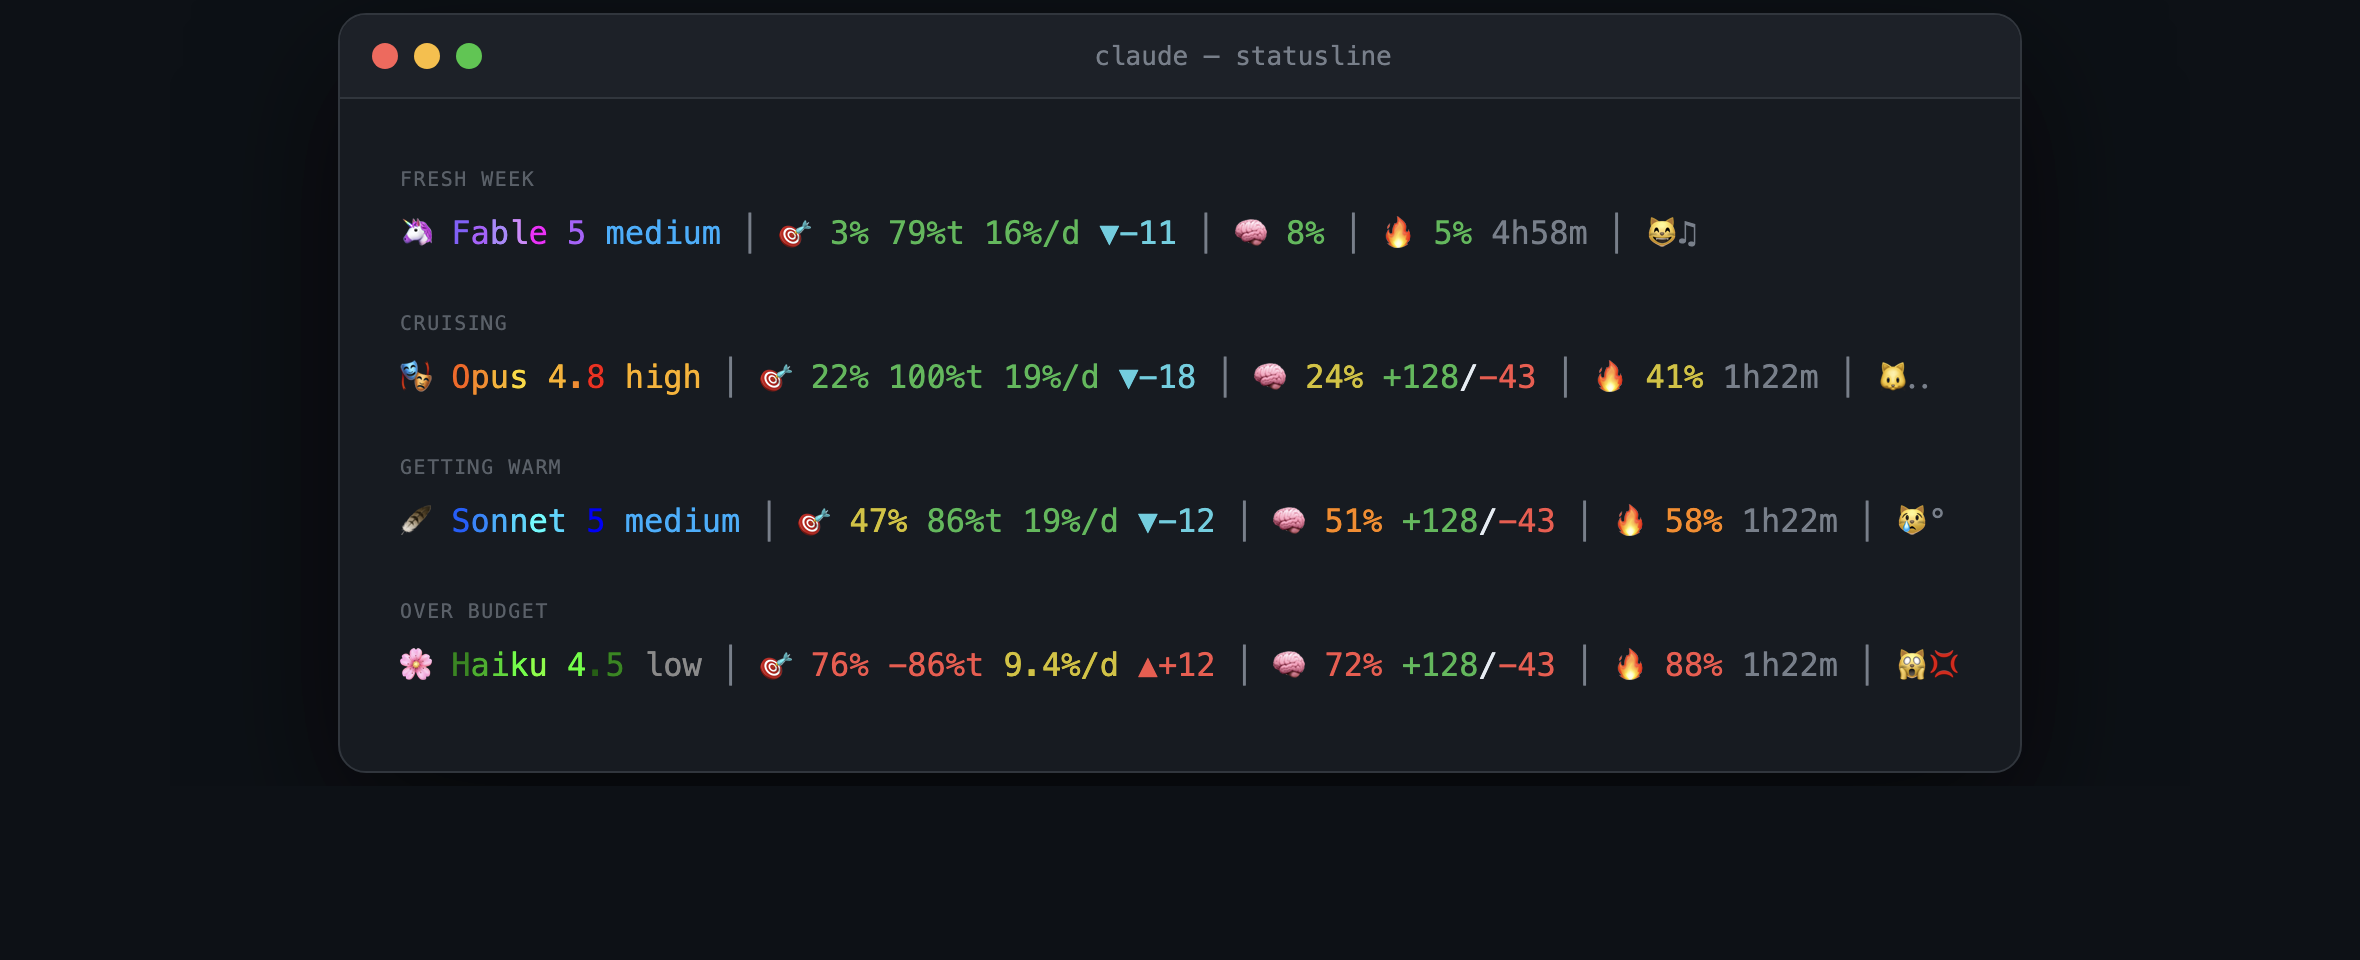
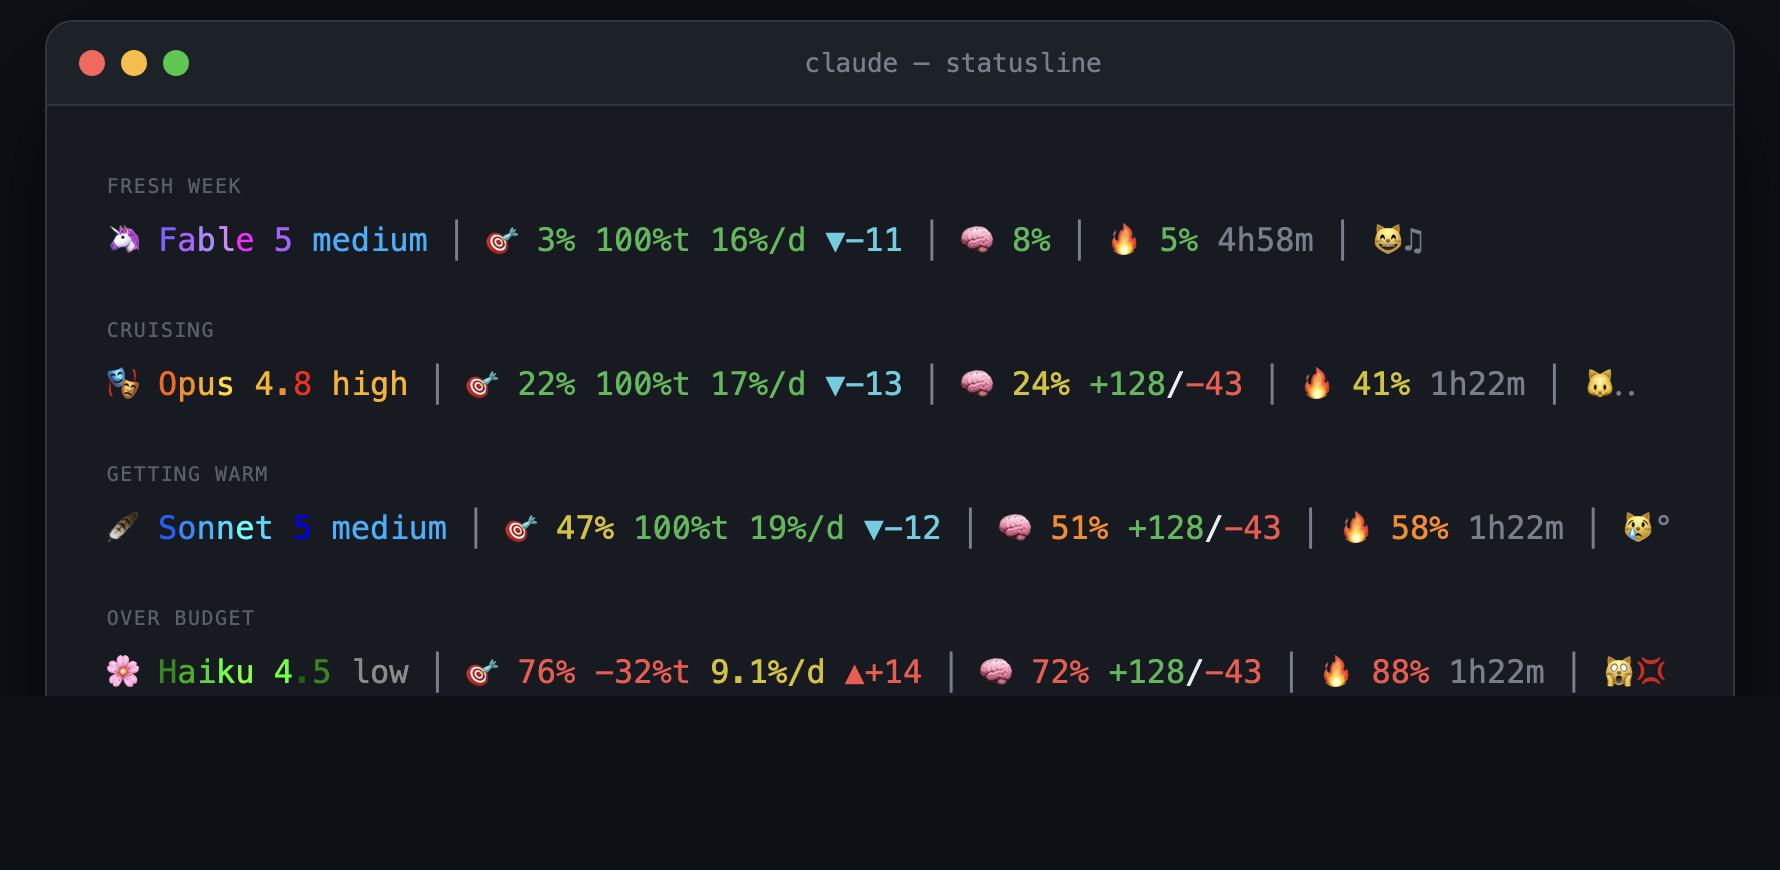
Tight crops on all images; per-stat infographic (clean + linked versions)

diff --git a/README.md b/README.md
@@ -21,7 +21,7 @@ If it saves you a rate-limit surprise, a ⭐ helps other people find it.
 
 ## 🧭 Anatomy
 
-![every stat explained](assets/infographic.png)
+![every stat explained](assets/infographic-clean.png)
 
 | | Group | Example | What it tells you |
 |---|---|---|---|
